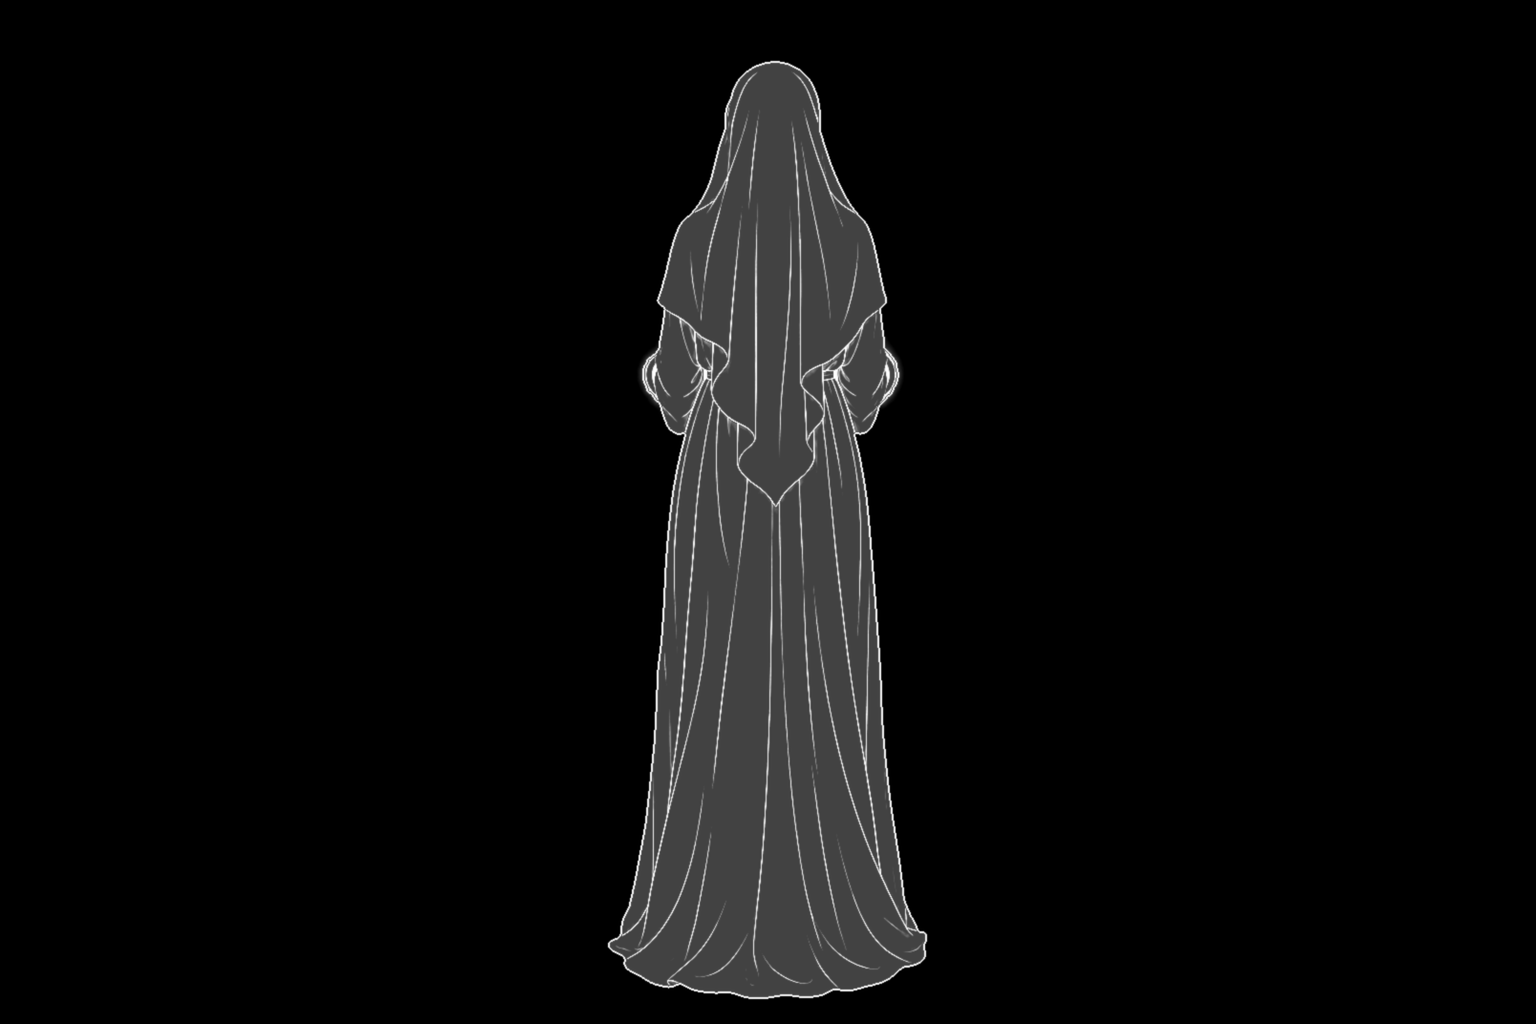
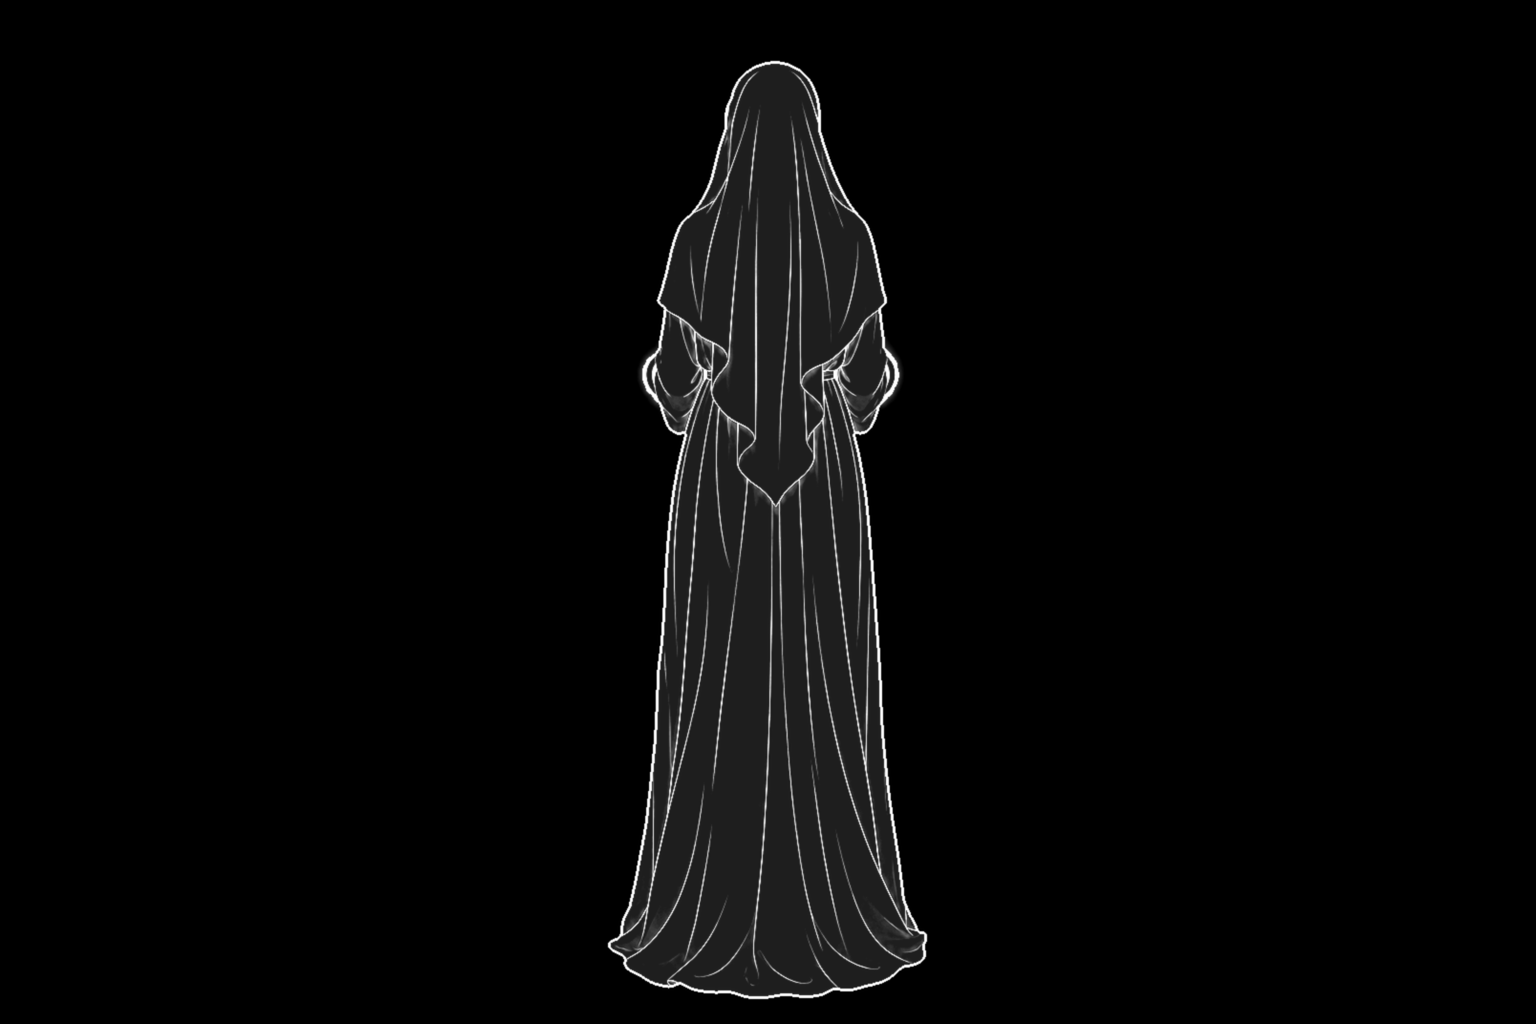
Song 10 round 3: credit gone before Greeting's relight ring, Earth gone before the title, 1.2 s cross-fades, no end card wave, golden Mother below the lamp, lantern clear of the words, lamp road faded in the lower third
Claude-Session: https://claude.ai/code/session_01DSHsMeB7ain7qg3RYXYMEW

Changed region(s): [[0.375, 0.0625, 0.625, 1.0]]

diff --git a/engine/songs/s10_mother_saves.py b/engine/songs/s10_mother_saves.py
@@ -77,10 +77,10 @@ G_FORM = 8.3           # Greeting, on the great lamp scene      (dissolve ends 1
 C_FORM = 20.4          # Consideration, on the threads scene   (dissolve ends 32.0)
 E_FORM = 32.5          # Encouragement, on the circles of peace (dissolve ends 44.1)
 HOLD = 10.0
-EARTH = 44.0           # scene 5: peace across the world, 4.5 s clear of words before the end card forms
+EARTH = 44.0           # scene 5: peace across the world, gone (48.8) before the end card forms (49.0)
 NINTH = 46.0           # the whole arch glows (a flare without new rings)
-TITLE_HIT = 51.6       # end card: the title forms from 48.6
-HOME = 49.8            # scene 6: the night of peace ripples in under the forming title
+TITLE_HIT = 52.0       # end card: the title forms from 49.0
+HOME = 47.6            # scene 6: the night of peace comes in as the Earth leaves
 
 # Calm story curve that stands in for loudness (no recording yet)
 _STORY = Track([(0, 0.30), (6, 0.33), (12, 0.44), (30, 0.50), (44, 0.60), (48, 0.66), (56, 0.58), (TOTAL, 0.52)])
@@ -216,36 +216,36 @@ def MOTE_COLORS(t):
 _P = "assets/plates/s10/"
 SCENES = [
     # 1 the restless night: one small warm star alone on the horizon, cold blue lights, the water uneasy
-    dict(image=_P + "restless_night.jpg", t0=0.0, t1=7.0, fade_in=1.0, fade_out=2.5, zoom=(1.07, 1.03), calm_gain=0.85,
+    dict(image=_P + "restless_night.jpg", t0=0.0, t1=6.0, fade_in=1.0, fade_out=1.2, zoom=(1.07, 1.03), calm_gain=0.85,
          water=True, water_line=0.415, water_strength=1.9),
     # 2 the great lamp is lifted: Heavenly Mother (from behind) at the lamp; Greeting
-    dict(image=_P + "great_lamp.jpg", t0=4.5, t1=20.5, fade_in=2.5, fade_out=2.5, transition="fade", calm_gain=0.85,
+    dict(image=_P + "great_lamp.jpg", t0=4.8, t1=19.2, fade_in=1.2, fade_out=1.2, transition="fade", calm_gain=0.85,
          zoom=(1.0, 1.04), water=True, water_line=0.495, water_strength=0.7,
          gain=Track([(0, 1.0), (7.5, 1.0), (9.0, 0.80), (TOTAL, 0.80)])),
     # 3 Her words go out: gold threads from the lantern to the lights on the water; Consideration
-    dict(image=_P + "threads.jpg", t0=18.0, t1=33.0, fade_in=2.5, fade_out=2.5, transition="fade", calm_gain=0.85,
-         zoom=(1.04, 1.0), water=True, water_line=0.575, water_strength=0.45,
+    dict(image=_P + "threads.jpg", t0=18.0, t1=31.7, fade_in=1.2, fade_out=1.2, transition="fade", calm_gain=0.85,
+         zoom=1.12, pan=((0.0, 0.06), (0.0, 0.06)), water=True, water_line=0.52, water_strength=0.45,
          gain=0.85),
     # 4 circles of peace: wherever a word reached, the water settles into a still mirror; Encouragement
-    dict(image=_P + "circles_of_peace.jpg", t0=30.5, t1=46.5, fade_in=2.5, fade_out=2.5, transition="fade", calm_gain=0.85,
+    dict(image=_P + "circles_of_peace.jpg", t0=30.5, t1=45.2, fade_in=1.2, fade_out=1.2, transition="fade", calm_gain=0.85,
          zoom=(1.0, 1.04), water=True, water_line=0.61, water_strength=0.15,
          gain=0.85),
     # 5 peace across the world: the night Earth laced with gold paths, the arch glows (no words for 4.5 s)
-    dict(image=_P + "earth_web.jpg", t0=EARTH, t1=52.4, fade_in=2.5, fade_out=2.6, transition="fade", calm_gain=0.85,
+    dict(image=_P + "earth_web.jpg", t0=EARTH, t1=48.8, fade_in=1.2, fade_out=1.2, transition="fade", calm_gain=0.85,
          zoom=(1.0, 1.05), water=False, gain=Track([(0, 1.0), (48.0, 1.0), (49.5, 0.65), (TOTAL, 0.65)])),
     # 6 night of peace: the home lake a perfect mirror, the lamp set back down; end card
-    dict(image=_P + "mirror_night.jpg", t0=HOME, t1=61.0, fade_in=2.6, fade_out=0.0, transition="fade", calm_gain=0.85,
+    dict(image=_P + "mirror_night.jpg", t0=HOME, t1=61.0, fade_in=1.2, fade_out=0.0, transition="fade", calm_gain=0.85,
          zoom=(1.03, 1.0), water=True, water_line=0.46, water_strength=0.12,
          gain=0.85),
 ]
 
 # ----------------------------------------------------------------- B. people of light
-# Heavenly Mother, seen only from behind and fully robed, holding the lamp low at the centre of the great lamp's
-# light; when Her first word has gone out, Her sparks return into the lamp. The three pairs act at different places:
-# centre-left, right, centre.
+# Heavenly Mother, seen only from behind and fully robed, standing just below the great lamp so it shines above
+# Her head; when Her first word has gone out, Her sparks return into the lamp. The three pairs act at different
+# places: centre-left, right, centre.
 FIGURES = [
-    dict(poses=["assets/figures/s10_mother_lamp_a.png"], t0=4.8, t1=16.0, x=0.5, y=0.35, height=0.24,
-         to=(0.5, 0.495), color="#ffd796", glow=0.55, glass=0.5, sparks=0.8),
+    dict(poses=["assets/figures/s10_mother_lamp_a.png"], t0=4.8, t1=16.0, x=0.5, y=0.255, height=0.22,
+         to=(0.5, 0.495), color="#ffbf5e", glow=0.45, glass=0.35, sparks=0.75),
     # Greeting: the left person walks up and waves; the lonely one places their hands in the offered hands
     dict(poses=["assets/figures/greeting_a.png", "assets/figures/greeting_b.png"],
          t0=G_FORM - 2.3, t1=G_FORM + HOLD - 0.5, pose_times=[G_FORM + 3.2], x=0.25, y=0.23, height=0.36,
@@ -266,7 +266,7 @@ FIGURES = [
 # BEAM path with a small pool where it lands), then fades when the words rise
 _THREADS = [  # (start, end, from (the lamp in that plate), to (the pair))
     (G_FORM - 1.3, G_FORM + HOLD - 0.3, (0.5, 0.495), (0.33, 0.40)),
-    (C_FORM - 0.9, C_FORM + HOLD - 0.3, (0.5, 0.555), (0.66, 0.40)),
+    (C_FORM - 0.9, C_FORM + HOLD - 0.3, (0.5, 0.50), (0.66, 0.40)),
     (E_FORM - 0.9, E_FORM + HOLD - 0.3, (0.5, 0.605), (0.5, 0.47)),
 ]
 BEAM = Track([(0, 0.0)] + [k for a, b, _, _ in _THREADS
@@ -333,11 +333,11 @@ TITLE = dict(label="Healing Concert", lines=["The Words of Mother’s Love"], si
 FRAGMENTS = []   # no lyrics yet
 TAGLINE = dict(text="Where a mother’s love reaches, peace settles.\nSunday, December 6 · 4:30 PM\n"
                     "The World Mission Society Church of God · 6720 W Sahara Ave, Las Vegas",
-               t0=53.0, t1=54.8)
+               t0=53.4, t1=55.0)
 
 CREDIT = dict(song="Our Mother Saves the World", concert="The Words of Mother’s Love Healing Concert",
               t_in=0.3, t_full=1.5, t_move=4.4, t_rest=6.4, scale=0.34, alpha_rest=0.58,
-              margin_x=0.030, margin_top=0.048, t_gone0=46.5, t_gone1=47.8)
+              margin_x=0.030, margin_top=0.048, t_gone0=17.6, t_gone1=19.0)
 
 
 def credit_state(t, bbox):
@@ -357,14 +357,15 @@ def credit_state(t, bbox):
     cx, cy = cx0 * (1 - m) + tx * m, cy0 * (1 - m) + ty * m
     # the corner credit leaves before the arch glows and the end card comes (nothing crosses it)
     alpha = a_in * (1.0 + (c["alpha_rest"] - 1.0) * m) * (1.0 - ss(c["t_gone0"], c["t_gone1"], t))
+    alpha *= 1.0 - 0.8 * (4.0 * m * (1.0 - m))   # dim while it crosses the arch line on its way to the corner
     return (cx, cy, scale, alpha), (cx0, cy0)
 
 
 # Small waves of light where a spoken word reaches its light (none for Greeting: its light is next to the corner
-# credit), and a soft one for the end card
+# credit), and none for the end card (it left a haze box under the title)
 WAVES = [(PHRASES[7]["arrive"], STAR_POS[7][0], STAR_POS[7][1], 0.22),
          (PHRASES[6]["arrive"], STAR_POS[6][0], STAR_POS[6][1], 0.22),
-         (TITLE_HIT, 0.5, 0.62, 0.35)]
+         ]
 
 
 # star_state and link_state come from engine/arch.py (installed by song.py), the same for every song.

diff --git a/assets/plates/s10/calm_lower_third.py b/assets/plates/s10/calm_lower_third.py
@@ -1,9 +1,11 @@
 """Calms the lower third of the song 10 plates (Astra round 2: the lamp's gold road was the brightest thing under
 the performers). Below 40 percent of the height from the bottom the picture is dimmed smoothly to 62 percent at
 15 percent and below, and highlights there are compressed (no bright glints), so the stage stays quiet.
+With "strong" (used for great_lamp, whose reflection road runs to the bottom edge) the road is faded much further
+below a third of the height: to 30 percent, with a lower knee.
 
 The originals are in Anthony's Drive folder (Assets/s10/s10_plate1 to s10_plate6). Run once on the originals:
-python3 assets/plates/s10/calm_lower_third.py <in.jpg> <out.jpg>
+python3 assets/plates/s10/calm_lower_third.py <in.jpg> <out.jpg> [strong]
 """
 import sys
 
@@ -11,20 +13,24 @@ import numpy as np
 from PIL import Image
 
 
-def main(src, dst):
+def main(src, dst, strong=False):
     a = np.asarray(Image.open(src).convert("RGB")).astype(np.float32) / 255.0
     h = a.shape[0]
     yb = 1.0 - (np.arange(h) + 0.5) / h                     # height from the bottom
-    u = np.clip((0.40 - yb) / 0.25, 0.0, 1.0)
+    if strong:
+        u = np.clip((0.40 - yb) / 0.12, 0.0, 1.0)
+        floor, knee, slope = 0.70, 0.22, 0.20
+    else:
+        u = np.clip((0.40 - yb) / 0.25, 0.0, 1.0)
+        floor, knee, slope = 0.38, 0.42, 0.35
     u = u * u * (3 - 2 * u)
-    dim = (1.0 - 0.38 * u)[:, None, None]
+    dim = (1.0 - floor * u)[:, None, None]
     lum = a.mean(axis=2, keepdims=True)
-    knee = 0.42
-    comp = np.where(lum > knee, knee + (lum - knee) * 0.35, lum) / np.maximum(lum, 1e-4)
+    comp = np.where(lum > knee, knee + (lum - knee) * slope, lum) / np.maximum(lum, 1e-4)
     k = u[:, None, None]
     a = a * (1 - k + k * comp) * dim
     Image.fromarray((np.clip(a, 0, 1) * 255 + 0.5).astype(np.uint8)).save(dst, quality=90)
 
 
 if __name__ == "__main__":
-    main(sys.argv[1], sys.argv[2])
+    main(sys.argv[1], sys.argv[2], len(sys.argv) > 3 and sys.argv[3] == "strong")

diff --git a/assets/plates/s10/prepare_mother.py b/assets/plates/s10/prepare_mother.py
@@ -16,10 +16,10 @@ def main(src, dst):
     g = np.asarray(Image.open(src).convert("L")).astype(np.float32) / 255.0
     mask = ndi.binary_fill_holes(ndi.gaussian_filter(g, 1.0) > 0.35)
     mask = ndi.binary_opening(mask, iterations=2)
-    edge = mask ^ ndi.binary_erosion(mask, iterations=2)
+    edge = mask ^ ndi.binary_erosion(mask, iterations=3)
     folds = np.clip((0.96 - g) * 6.0, 0.0, 1.0) * ndi.binary_erosion(mask, iterations=3)
     glow = np.clip((g - 0.15) * 1.5, 0, 1) * (~mask)          # the lamp's halo by the hands
-    art = np.maximum.reduce([edge.astype(np.float32), folds, 0.26 * mask.astype(np.float32), glow * 0.8])
+    art = np.maximum.reduce([edge.astype(np.float32), folds, 0.12 * mask.astype(np.float32), glow * 0.8])
     art = ndi.gaussian_filter(art, 0.6)
     ys, xs = np.nonzero(art > 0.05)
     art = art[ys.min():ys.max() + 1, xs.min():xs.max() + 1]
